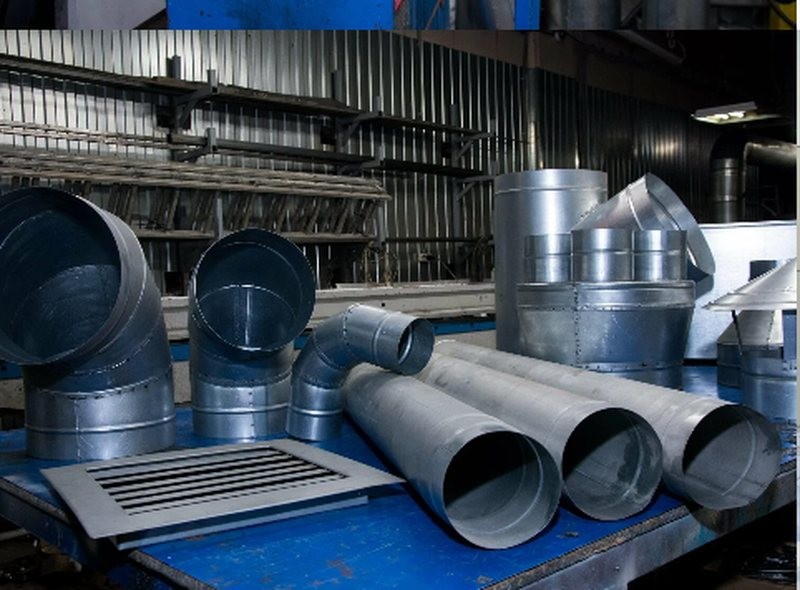
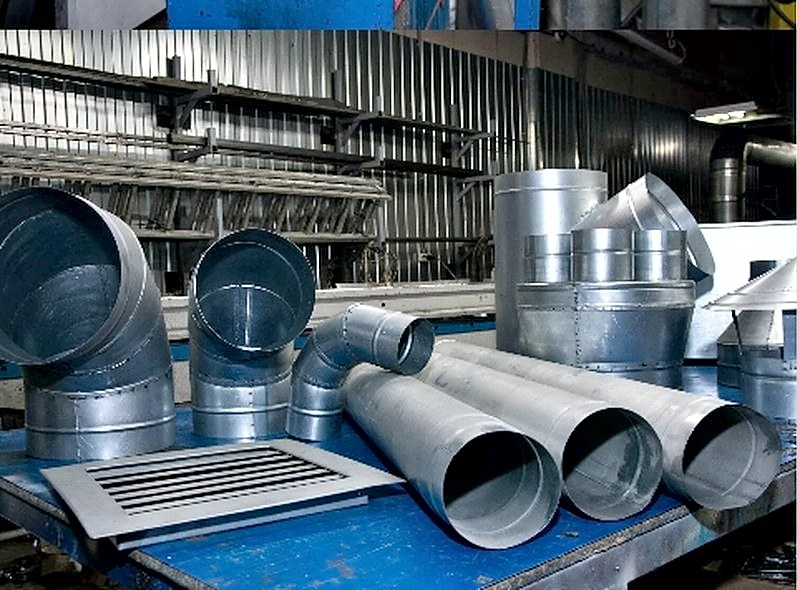
Restore the ducts-and-grilles photo
work-4.jpg was underexposed and blue: luminance median 58 of 255, channel
means 58/70/82. Per-channel levels at 72% strength (the shop really is lit
cold, so a full neutralisation would read as fake), gamma to bring the median
to ~85, chroma-only blur for the colour noise, and two unsharp passes for
local contrast and detail. Also trims three stray bright columns on the right
edge, left over from the original screenshot crop.

No upscaling: the tile renders at 250-354 CSS px, so the existing 800 px is
already enough for 2x screens.

Claude-Session: https://claude.ai/code/session_01BqZmAKPSiT8aZjQG1cCHvv

diff --git a/ventsai/img/README.md b/ventsai/img/README.md
@@ -9,7 +9,7 @@
 |---|---|
 | `work-1.jpg` | плазменный раскрой металла |
 | `work-3.jpg` | цех: изготовление воздуховодов |
-| `work-4.jpg` | оцинкованные воздуховоды и решётки |
+| `work-4.jpg` | оцинкованные воздуховоды и решётки (кадр обработан, см. ниже) |
 | `work-5.jpg` | смонтированная система вентиляции |
 | `work-6.jpg` | вентиляция в помещении |
 | `work-7.jpg` | фасадные кассеты на объекте |
@@ -20,6 +20,23 @@
 замените файлы с теми же именами, вёрстку править не нужно.
 
 Если файла нет, в галерее показывается заглушка с подписью — вёрстка не ломается.
+
+## Обработка work-4.jpg
+
+Кадр был недоэкспонирован и синил: медиана яркости 58 из 255, средние по
+каналам 58/70/82. Что сделано (скрипт одноразовый, в репозиторий не клался):
+
+- срезаны три светлых столбца по правому краю — мусор от вырезки из скриншота;
+- уровни по каждому каналу отдельно, но на 72% силы: цех действительно
+  освещён холодно, полная нейтрализация синевы выглядела бы фальшиво;
+- гамма подобрана так, чтобы медиана яркости вышла на ~85;
+- цветовой шум убран размытием только Cb/Cr, яркость не тронута;
+- объём и резкость — две нерезкие маски: большого радиуса на локальный
+  контраст, малого на детали, обе с порогом, чтобы не поднимать зерно в тенях.
+
+Медиана яркости 58 → 85, размер 800×590 → 797×590, вес 90 → 117 КБ.
+Разрешение не поднималось: в плитке галереи кадр выводится примерно
+на 250–354 CSS-пикселя, исходных 800 хватает с запасом даже для 2x-экранов.
 
 ## nomenclature.jpg
 
